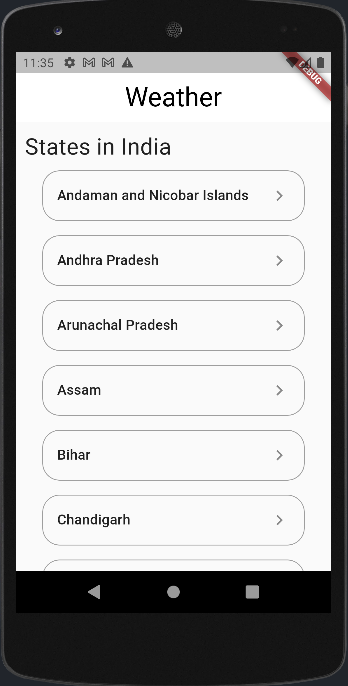
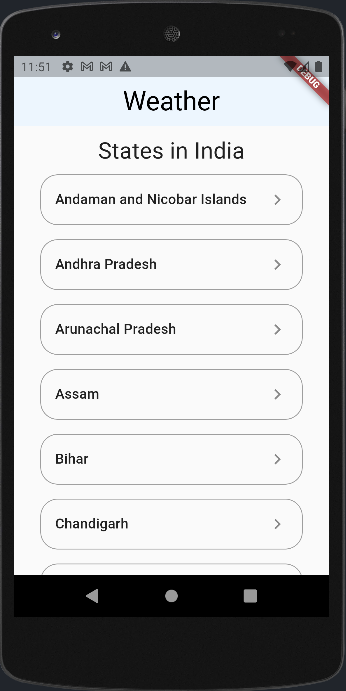
README.md updated

diff --git a/lib/screens/landing_page.dart b/lib/screens/landing_page.dart
@@ -29,7 +29,7 @@ class _HomePageState extends State<HomePage> {
           child: SingleChildScrollView(
             padding: EdgeInsets.symmetric(horizontal: 10, vertical: 10),
             child: Column(
-              crossAxisAlignment: CrossAxisAlignment.start,
+              crossAxisAlignment: CrossAxisAlignment.center,
               children: [
                 const Text(
                   "States in India",
